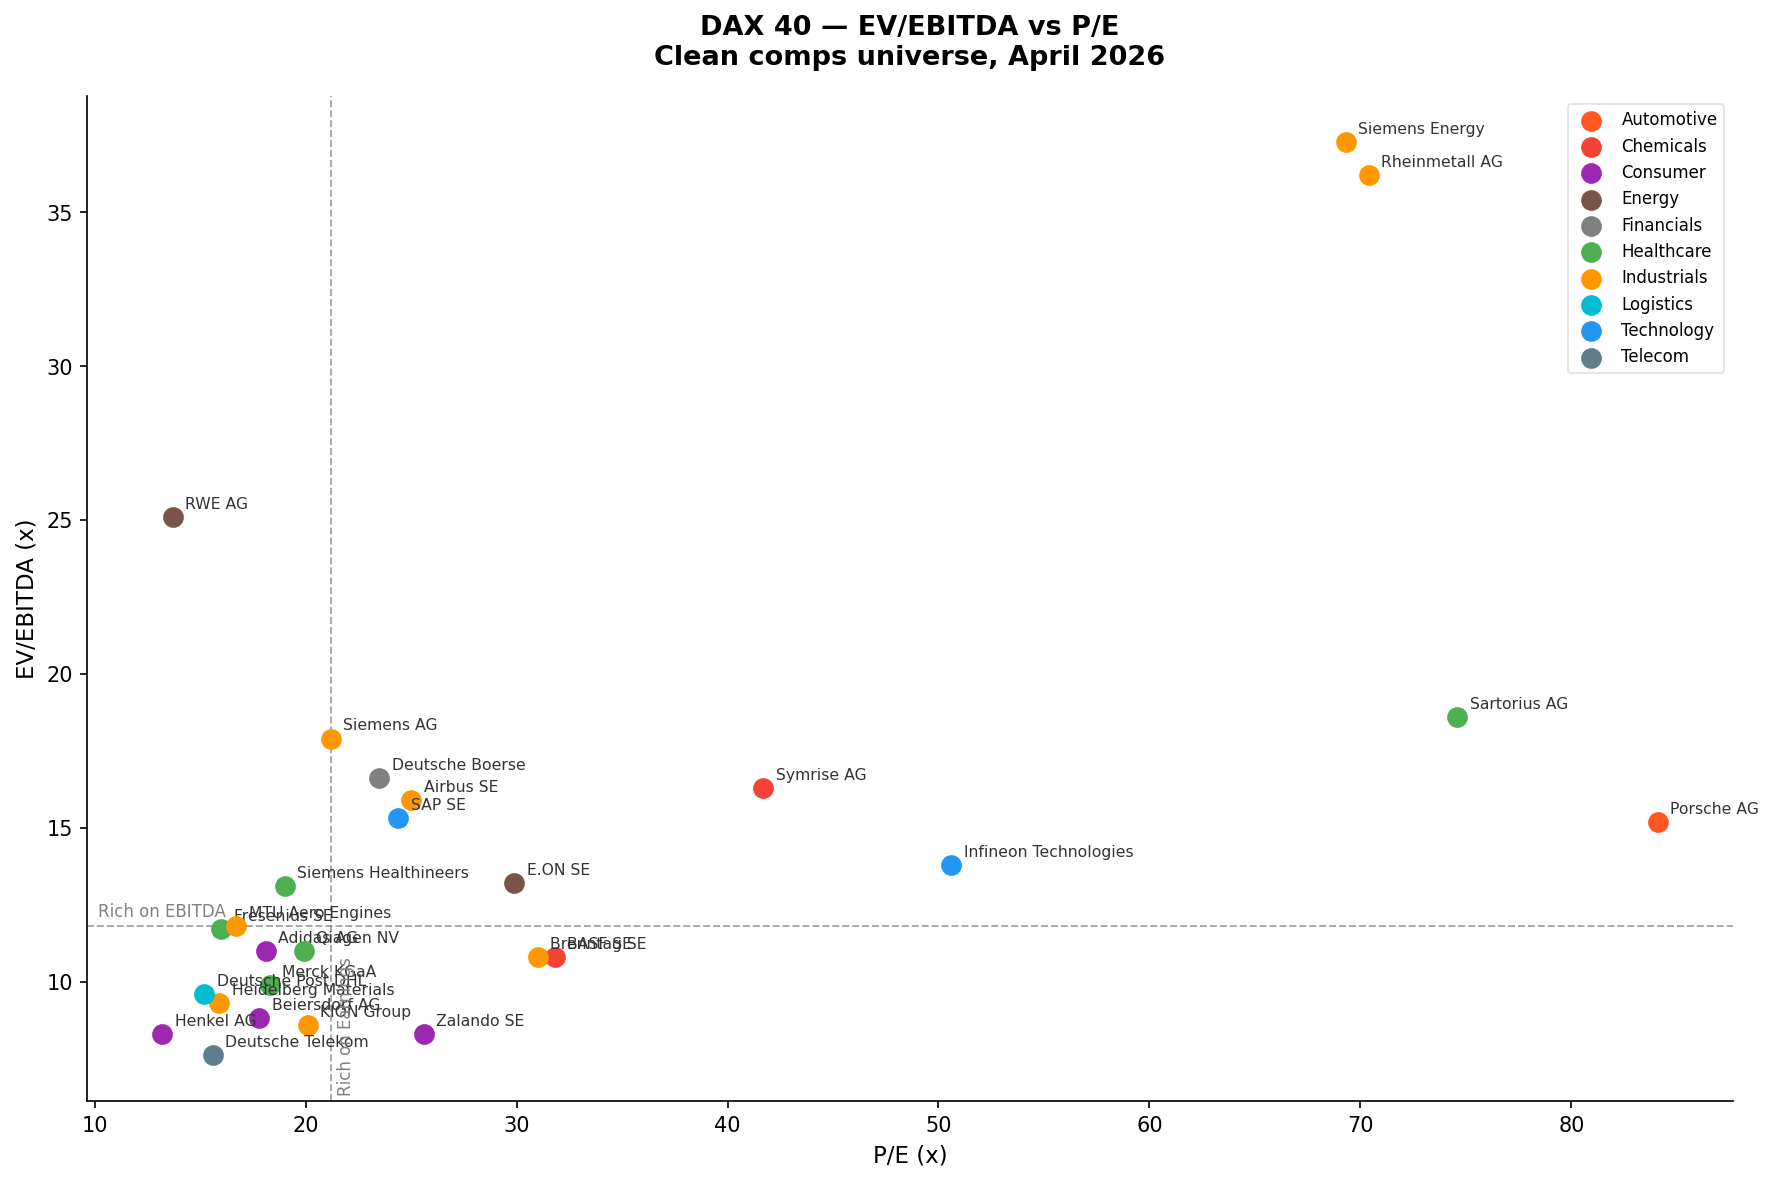
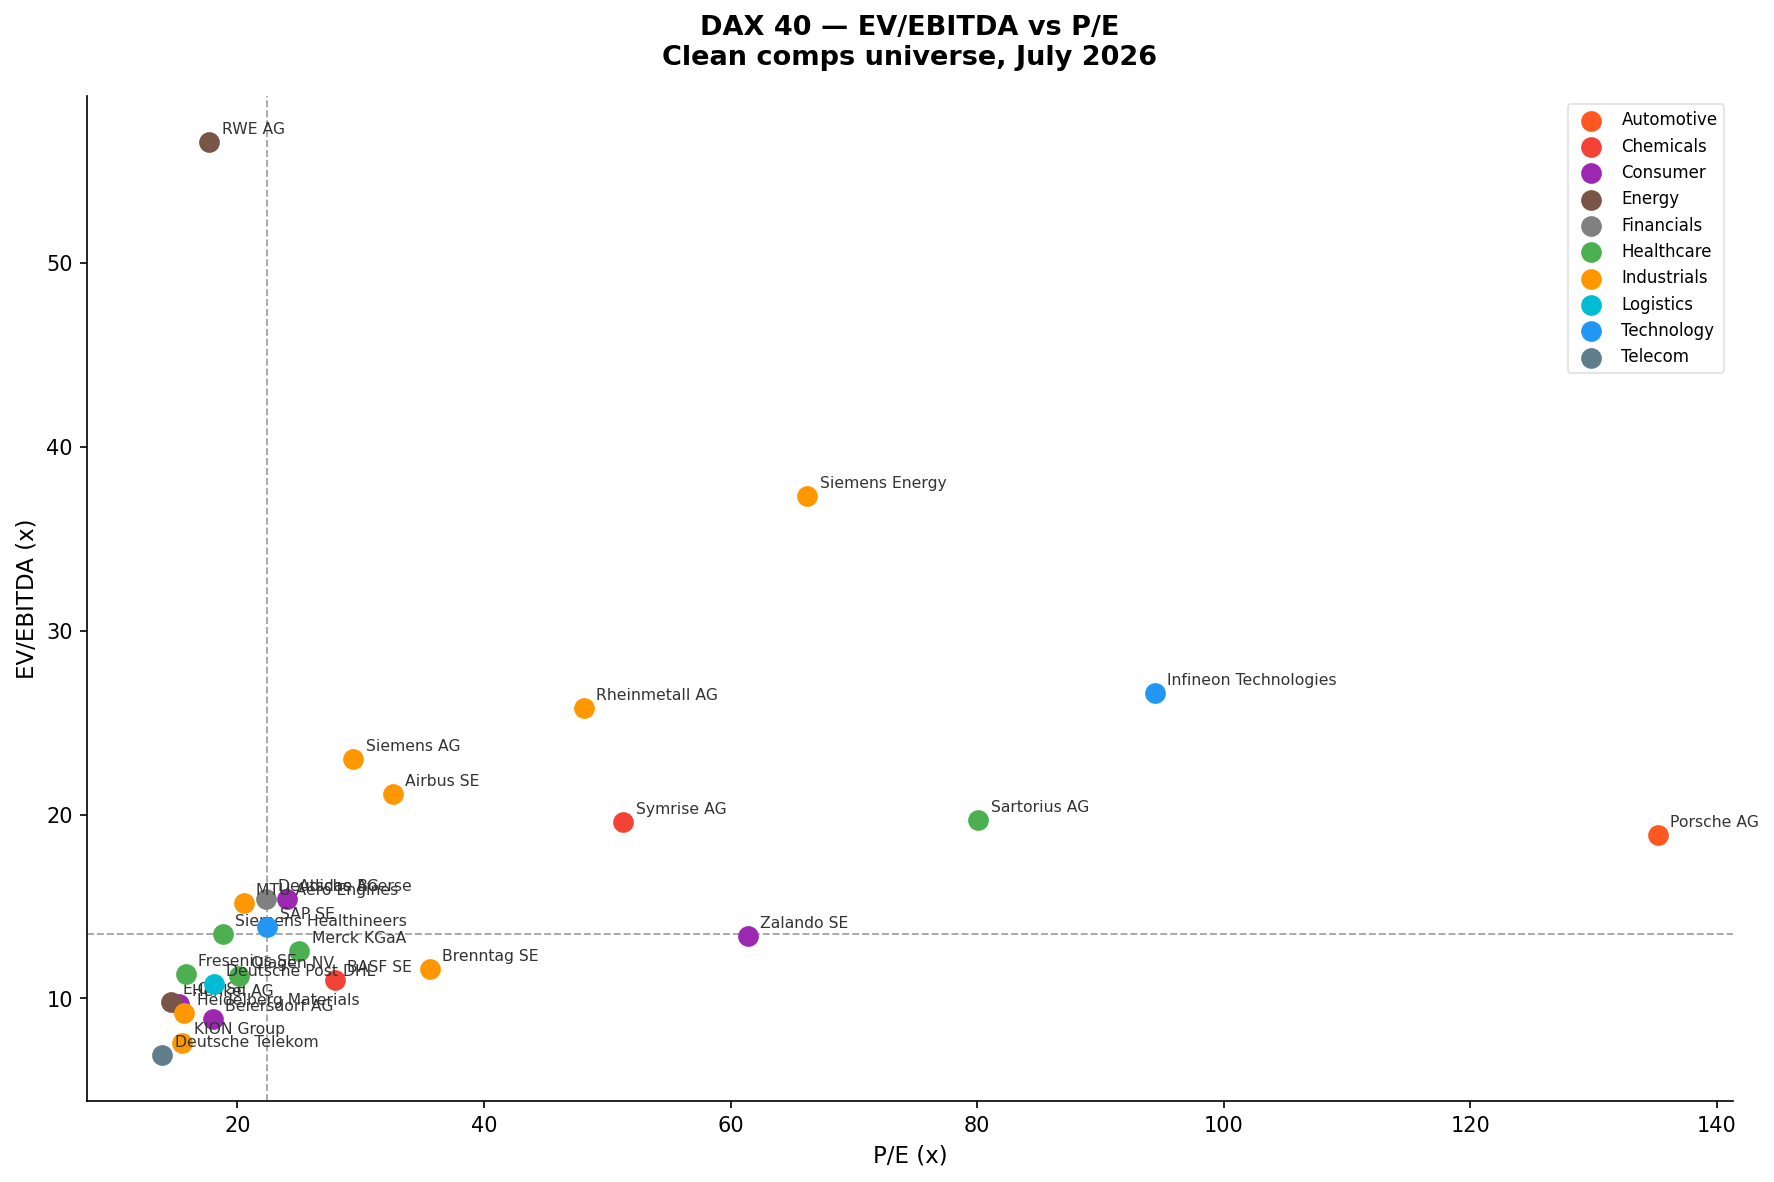
Refresh to July 2026 data, add weekly auto-refresh via GitHub Actions, add Key Findings

diff --git a/refresh_data.py b/refresh_data.py
@@ -1,0 +1,106 @@
+import yfinance as yf
+import pandas as pd
+import matplotlib.pyplot as plt
+import warnings, datetime
+warnings.filterwarnings('ignore')
+
+DAX40 = {
+    'SAP.DE':('SAP SE','Technology'),'IFX.DE':('Infineon Technologies','Technology'),
+    'SHL.DE':('Siemens Healthineers','Healthcare'),'SRT.DE':('Sartorius AG','Healthcare'),
+    'MRK.DE':('Merck KGaA','Healthcare'),'BAYN.DE':('Bayer AG','Healthcare'),
+    'FRE.DE':('Fresenius SE','Healthcare'),'QIA.DE':('Qiagen NV','Healthcare'),
+    'SIE.DE':('Siemens AG','Industrials'),'ENR.DE':('Siemens Energy','Industrials'),
+    'RHM.DE':('Rheinmetall AG','Industrials'),'MTX.DE':('MTU Aero Engines','Industrials'),
+    'KGX.DE':('KION Group','Industrials'),'HEI.DE':('Heidelberg Materials','Industrials'),
+    'BNR.DE':('Brenntag SE','Industrials'),'AIR.DE':('Airbus SE','Industrials'),
+    'BMW.DE':('BMW AG','Automotive'),'MBG.DE':('Mercedes-Benz Group','Automotive'),
+    'CON.DE':('Continental AG','Automotive'),'DTG.DE':('Daimler Truck','Automotive'),
+    'PAH3.DE':('Porsche SE','Automotive'),'P911.DE':('Porsche AG','Automotive'),
+    'VOW3.DE':('Volkswagen AG','Automotive'),
+    'ALV.DE':('Allianz SE','Financials'),'MUV2.DE':('Munich Re','Financials'),
+    'DBK.DE':('Deutsche Bank','Financials'),'CBK.DE':('Commerzbank','Financials'),
+    'DB1.DE':('Deutsche Boerse','Financials'),'HNR1.DE':('Hannover Re','Financials'),
+    'VNA.DE':('Vonovia SE','Financials'),
+    'BAS.DE':('BASF SE','Chemicals'),'SY1.DE':('Symrise AG','Chemicals'),
+    'BEI.DE':('Beiersdorf AG','Consumer'),'HEN3.DE':('Henkel AG','Consumer'),
+    'ZAL.DE':('Zalando SE','Consumer'),'ADS.DE':('Adidas AG','Consumer'),
+    'RWE.DE':('RWE AG','Energy'),'EOAN.DE':('E.ON SE','Energy'),
+    'DTE.DE':('Deutsche Telekom','Telecom'),'DHL.DE':('Deutsche Post DHL','Logistics'),
+}
+
+records = []
+failed = []
+for ticker, (name, sector) in DAX40.items():
+    try:
+        info = yf.Ticker(ticker).info
+        ev = info.get('enterpriseValue'); ebitda = info.get('ebitda')
+        mktcap = info.get('marketCap'); pe = info.get('trailingPE'); rev = info.get('totalRevenue')
+        ev_ebitda_direct = info.get('enterpriseToEbitda')
+        ev_ebitda = round(ev_ebitda_direct,1) if ev_ebitda_direct else (round(ev/ebitda,1) if ev and ebitda and ebitda>0 else None)
+        ev_rev = round(ev/rev,1) if ev and rev and rev>0 else None
+        records.append({'Ticker':ticker,'Company':name,'Sector':sector,
+            'EV (EUR bn)': round(ev/1e9,1) if ev else None,
+            'EBITDA (EUR bn)': round(ebitda/1e9,1) if ebitda else None,
+            'Revenue (EUR bn)': round(rev/1e9,1) if rev else None,
+            'Mkt Cap (EUR bn)': round(mktcap/1e9,1) if mktcap else None,
+            'EV/EBITDA (x)': ev_ebitda, 'EV/Revenue (x)': ev_rev,
+            'P/E (x)': round(pe,1) if pe else None})
+    except Exception as e:
+        failed.append((ticker,str(e)))
+
+df = pd.DataFrame(records)
+flags = {'PAH3.DE':'N/M – holding co','ALV.DE':'N/M – insurer','MUV2.DE':'N/M – insurer',
+    'HNR1.DE':'N/M – insurer','DBK.DE':'N/M – bank','CBK.DE':'N/M – bank','VNA.DE':'N/M – REIT',
+    'BMW.DE':'EV adj. reqd','MBG.DE':'EV adj. reqd','VOW3.DE':'EV adj. reqd','DTG.DE':'EV adj. reqd','CON.DE':'EV adj. reqd'}
+df['Data Flag'] = df['Ticker'].map(flags).fillna('OK')
+
+print(f"Loaded {len(df)}/{len(DAX40)} companies. Failed: {failed}")
+
+out_csv = f'dax40_trading_comps_{datetime.date.today():%Y%m}.csv'
+    # remove older dated exports so only the latest is kept
+import glob, os
+for f in glob.glob('dax40_trading_comps_*.csv'):
+    if f != out_csv:
+        os.remove(f)
+df.to_csv(out_csv, index=False)
+print(f"Saved {out_csv}, {len(df)} rows")
+
+df_clean = df[df['Data Flag']=='OK'].copy()
+sector_medians = df_clean.groupby('Sector')['EV/EBITDA (x)'].median().sort_values(ascending=True)
+
+fig, ax = plt.subplots(figsize=(10,6))
+bars = ax.barh(sector_medians.index, sector_medians.values, color='steelblue', edgecolor='white')
+for bar,val in zip(bars, sector_medians.values):
+    ax.text(val+0.2, bar.get_y()+bar.get_height()/2, f'{val:.1f}x', va='center', fontsize=10, fontweight='bold')
+ax.set_xlabel('Median EV/EBITDA (x)', fontsize=11)
+ax.set_title('DAX 40 — Sector Median EV/EBITDA\n(Financials, REITs & captive-finance OEMs excluded)', fontsize=13, fontweight='bold', pad=15)
+ax.axvline(df_clean['EV/EBITDA (x)'].median(), color='red', linestyle='--', linewidth=1.2, label='Overall median')
+ax.legend(); ax.set_xlim(0, sector_medians.max()+4); ax.spines[['top','right']].set_visible(False)
+plt.tight_layout(); plt.savefig('dax40_sector_medians.png', dpi=150, bbox_inches='tight'); plt.close()
+print("Sector medians chart saved")
+
+df_scatter = df_clean.dropna(subset=['EV/EBITDA (x)','P/E (x)']).copy()
+sector_colors = {'Technology':'#2196F3','Healthcare':'#4CAF50','Industrials':'#FF9800','Consumer':'#9C27B0',
+    'Chemicals':'#F44336','Energy':'#795548','Telecom':'#607D8B','Logistics':'#00BCD4','Automotive':'#FF5722'}
+fig, ax = plt.subplots(figsize=(12,8))
+for sector, group in df_scatter.groupby('Sector'):
+    color = sector_colors.get(sector,'grey')
+    ax.scatter(group['P/E (x)'], group['EV/EBITDA (x)'], color=color, s=80, label=sector, zorder=3)
+    for _, row in group.iterrows():
+        ax.annotate(row['Company'], (row['P/E (x)'], row['EV/EBITDA (x)']), textcoords='offset points', xytext=(6,4), fontsize=7.5, color='#333333')
+med_pe = df_scatter['P/E (x)'].median(); med_evebitda = df_scatter['EV/EBITDA (x)'].median()
+ax.axvline(med_pe, color='grey', linestyle='--', linewidth=0.9, alpha=0.7)
+ax.axhline(med_evebitda, color='grey', linestyle='--', linewidth=0.9, alpha=0.7)
+ax.set_xlabel('P/E (x)', fontsize=11); ax.set_ylabel('EV/EBITDA (x)', fontsize=11)
+ax.set_title('DAX 40 — EV/EBITDA vs P/E\nClean comps universe, July 2026', fontsize=13, fontweight='bold', pad=15)
+ax.legend(loc='upper right', fontsize=8, framealpha=0.5); ax.spines[['top','right']].set_visible(False)
+plt.tight_layout(); plt.savefig('dax40_scatter.png', dpi=150, bbox_inches='tight'); plt.close()
+print("Scatter chart saved")
+
+# Print summary stats for README/conclusion
+print("\n--- Sector medians ---")
+print(sector_medians.to_string())
+print("\n--- Cheapest 5 by EV/EBITDA ---")
+print(df_clean.nsmallest(5,'EV/EBITDA (x)')[['Company','Sector','EV/EBITDA (x)']].to_string(index=False))
+print("\n--- Most expensive 5 by EV/EBITDA ---")
+print(df_clean.nlargest(5,'EV/EBITDA (x)')[['Company','Sector','EV/EBITDA (x)']].to_string(index=False))

diff --git a/README.md b/README.md
@@ -6,6 +6,8 @@
 **Background:** MSc Finance, WHU Otto Beisheim School of Management (2026 intake) | CFA Level I
 **LinkedIn:** [linkedin.com/in/shardulpundir](https://linkedin.com/in/shardulpundir)
 
+**Data last refreshed:** July 2026 — updates automatically every Monday via GitHub Actions (see `.github/workflows/refresh.yml`), so the numbers here don't go stale.
+
 ---
 
 ## Project Overview
@@ -26,11 +28,12 @@ Trading comparables ("trading comps") are one of the three core valuation method
 | Item | Detail |
 |------|--------|
 | **Data source** | Yahoo Finance via `yfinance` (live market data) |
-| **Universe** | All 40 DAX index constituents (as of April 2026) |
+| **Universe** | All 40 DAX index constituents |
 | **Key multiples** | EV/EBITDA, EV/Revenue, P/E (trailing twelve months) |
 | **EV/EBITDA method** | Uses `enterpriseToEbitda` directly from Yahoo Finance; manual calc (EV ÷ EBITDA) as fallback |
 | **Note on financials** | Banks (Deutsche Bank, Commerzbank, Munich Re) show no EV/EBITDA — correct, as this metric is not applicable to financials. P/Book is the standard multiple for these. |
-| **Prices** | April 2026 market prices |
+| **Prices** | Live at last refresh (see date above) — re-pulled automatically weekly |
+| **Refresh mechanism** | `refresh_data.py` re-pulls all 40 tickers and regenerates the CSV + both charts; a scheduled GitHub Action runs it every Monday and commits any changes automatically |
 
 ---
 
@@ -39,10 +42,12 @@ Trading comparables ("trading comps") are one of the three core valuation method
 ```
 dax40-trading-comps/
 │
-├── DAX40_Trading_Comps.ipynb     # Main notebook — run top to bottom
-├── dax40_trading_comps_april2026.csv   # Exported comps table
-├── dax40_sector_medians.png      # Sector EV/EBITDA bar chart
-├── dax40_scatter.png             # EV/EBITDA vs P/E scatter plot
+├── DAX40_Trading_Comps.ipynb        # Original interactive notebook — run top to bottom
+├── refresh_data.py                  # Standalone script — same logic, run by CI on a schedule
+├── .github/workflows/refresh.yml    # Weekly automated refresh (GitHub Actions)
+├── dax40_trading_comps_*.csv        # Exported comps table (most recent month is canonical)
+├── dax40_sector_medians.png         # Sector EV/EBITDA bar chart
+├── dax40_scatter.png                # EV/EBITDA vs P/E scatter plot
 ├── requirements.txt
 └── README.md
 ```
@@ -81,6 +86,17 @@ Run all cells top to bottom. The notebook pulls live data — prices and multipl
 
 ### EV/EBITDA vs P/E Scatter
 ![Scatter Plot](dax40_scatter.png)
+
+---
+
+## Key Findings (as of latest refresh)
+
+- **Widest sector dispersion:** Energy is the most expensive sector at a 33.2x median EV/EBITDA (driven by RWE at 56.6x — the market pricing in the renewables build-out well ahead of current earnings), against Telecom at the cheapest, 6.9x (Deutsche Telekom), a >26x spread across two DAX sectors.
+- **Cheapest five names:** Deutsche Telekom (6.9x), KION Group (7.6x), Bayer AG (8.3x), Beiersdorf (8.9x), Heidelberg Materials (9.2x) — a mix of a litigation-overhang name (Bayer), a cyclical industrial trough (KION), and genuinely low-growth defensives (Telekom, Beiersdorf).
+- **Most expensive five names:** RWE (56.6x), Siemens Energy (37.3x), Infineon (26.6x), Rheinmetall (25.8x), Siemens AG (23.0x) — three of the five are direct plays on Europe's energy-transition and defense-spending themes, suggesting the market is pricing thematic growth well above where trailing EBITDA currently sits.
+- **Automotive vs Industrials:** Automotive's median (18.9x) now sits close to Industrials (18.2x) — a useful sanity check against the "German autos are structurally cheap" narrative; on this snapshot the sector isn't trading at a discount to industrial peers.
+
+*(These figures move with each weekly refresh — treat the specific multiples above as a snapshot of the methodology's output, not a static claim; check the latest CSV for current numbers.)*
 
 ---
 
